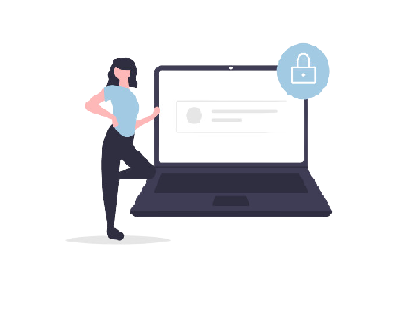
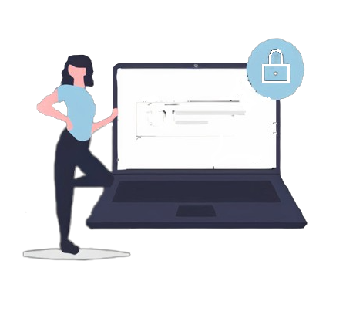
Implement API for Forgot password

diff --git a/src/screens/SubmitEmailScreen/index.js b/src/screens/SubmitEmailScreen/index.js
@@ -1,14 +1,152 @@
-import {StyleSheet, Text, View} from 'react-native';
-import React from 'react';
+import {
+  Animated,
+  Image,
+  ImageBackground,
+  Keyboard,
+  KeyboardAvoidingView,
+  Platform,
+  ScrollView,
+  StyleSheet,
+  Text,
+  TouchableOpacity,
+  View,
+} from 'react-native';
+import React, {useEffect, useRef, useState} from 'react';
+import {useNavigation} from '@react-navigation/native';
+import FontAwesome from 'react-native-vector-icons/FontAwesome';
+import {heightScreen, widthScreen} from '../../utility';
+import FieldTextInput from '../../components/FieldTextInput';
+import FieldButton from '../../components/FieldButton';
+import {SignIn} from '../../apis/controller/accounts/SignIn';
 
-const SubmitEmail = () => {
+const Header = () => {
+  const navigation = useNavigation();
   return (
     <View>
-      <Text>SubmitEmail</Text>
+      <View style={styles.viewBack}>
+        <TouchableOpacity
+          onPress={() => navigation.goBack()}
+          style={styles.buttonBack}>
+          <FontAwesome name="angle-left" size={24} color="black" />
+        </TouchableOpacity>
+      </View>
+      <Text style={styles.textHello}>New Password</Text>
     </View>
+  );
+};
+const Body = ({email, setNewPass, newPass}) => {
+  const navigation = useNavigation();
+  const handleSignIn = (email, password) => {
+    SignIn(email, password);
+    navigation.navigate('Home');
+  };
+  return (
+    <ScrollView style={styles.containerBody}>
+      <Image
+        source={require('../../assets/images/forgot321.png')}
+        resizeMode="cover"
+      />
+      <Text style={styles.textEnter}>
+        We will send you verification link this email address.
+      </Text>
+      <Text style={styles.textEnter}>({email})</Text>
+      <FieldTextInput
+        stylesContainer={{marginTop: heightScreen * 0.02}}
+        secureTextEntry={true}
+        placeholder={'Enter your new password'}
+        onChangeText={newPass => setNewPass(newPass)}
+        onSubmitEditing={() => handleSubmit(newPass)}
+      />
+      <FieldButton
+        stylesContainer={{marginVertical: heightScreen * 0.03}}
+        title={'Sign in'}
+        onPress={() => handleSignIn(email, newPass)}
+      />
+    </ScrollView>
+  );
+};
+const SubmitEmail = ({route}) => {
+  const navigation = useNavigation();
+  const headerMotion = useRef(new Animated.Value(0)).current;
+  // function handle animation
+  const animatedKeyBoard = (motion, value, duration) => {
+    Animated.timing(motion, {
+      toValue: value,
+      duration: duration,
+      speed: Platform.OS == 'ios' ? 60 : 50,
+      useNativeDriver: false,
+    }).start();
+  };
+  // hanlde to avoid view when showing key board
+  useEffect(() => {
+    const SHOW_KEYBOARD_EVENT =
+      Platform.OS === 'ios' ? 'keyboardWillShow' : 'keyboardDidShow';
+    const HIDE_KEYBOARD_EVENT =
+      Platform.OS === 'ios' ? 'keyboardWillHide' : 'keyboardDidHide';
+    const showSubscription = Keyboard.addListener(SHOW_KEYBOARD_EVENT, () => {
+      animatedKeyBoard(headerMotion, heightScreen * -0.2, 400);
+    });
+    const hideSubscription = Keyboard.addListener(HIDE_KEYBOARD_EVENT, () => {
+      animatedKeyBoard(headerMotion, 0, 400);
+    });
+    return () => {
+      showSubscription.remove();
+      hideSubscription.remove();
+    };
+  }, []);
+  const {email} = route.params;
+  const [newPass, setNewPass] = useState('');
+  const linkImg = require('../../assets/images/backgroundForgot.png');
+  return (
+    <ScrollView style={styles.viewParent}>
+      <ImageBackground source={linkImg} resizeMode="cover">
+        <KeyboardAvoidingView
+          behavior={Platform.OS === 'ios' ? 'padding' : null}>
+          <Header />
+          <Body email={email} setNewPass={setNewPass} newPass={newPass} />
+        </KeyboardAvoidingView>
+      </ImageBackground>
+    </ScrollView>
   );
 };
 
 export default SubmitEmail;
 
-const styles = StyleSheet.create({});
+const styles = StyleSheet.create({
+  viewParent: {
+    height: heightScreen,
+    width: widthScreen,
+  },
+  viewBack: {
+    height: heightScreen * 0.12,
+    width: widthScreen,
+  },
+  buttonBack: {
+    position: 'absolute',
+    alignItems: 'center',
+    justifyContent: 'center',
+    backgroundColor: '#fff',
+    height: 50,
+    width: 50,
+    borderRadius: 50 / 2,
+    bottom: 0,
+    left: widthScreen * 0.05,
+  },
+  textHello: {
+    fontWeight: 'bold',
+    fontSize: 35,
+    color: '#000',
+    textAlign: 'center',
+  },
+  textEnter: {
+    fontSize: 15,
+    color: '#000',
+    fontWeight: '500',
+    textAlign: 'center',
+  },
+  containerBody: {
+    height: heightScreen,
+    alignSelf: 'center',
+    width: widthScreen * 0.9,
+  },
+});

diff --git a/src/screens/ForgotPasswordScreen/index.js b/src/screens/ForgotPasswordScreen/index.js
@@ -1,8 +1,11 @@
 import {
+  Alert,
   Animated,
   Image,
   ImageBackground,
   Keyboard,
+  KeyboardAvoidingView,
+  Platform,
   ScrollView,
   StyleSheet,
   Text,
@@ -15,6 +18,7 @@ import FontAwesome from 'react-native-vector-icons/FontAwesome';
 import {heightScreen, widthScreen} from '../../utility';
 import FieldTextInput from '../../components/FieldTextInput';
 import FieldButton from '../../components/FieldButton';
+import {OnForgot} from '../../apis/controller/accounts/OnForgot';
 
 const Header = () => {
   const navigation = useNavigation();
@@ -27,32 +31,46 @@ const Header = () => {
           <FontAwesome name="angle-left" size={24} color="black" />
         </TouchableOpacity>
       </View>
-      <Text style={styles.textHello}>Forgot Password!</Text>
-      <Text style={styles.textWelcome}>Welcome Back To DaNaTravel</Text>
+      <Text style={styles.textHello}>Forgot Password</Text>
     </View>
   );
 };
 const Body = ({email, setEmail}) => {
   const navigation = useNavigation();
   const handleSubmit = email => {
-    console.log(email);
-    navigation.navigate('Submit');
+    if (!email.match(regexemail)) {
+      Alert.alert('Failed', 'Email is not correct', [
+        {
+          text: 'Try again',
+        },
+      ]);
+    } else {
+      OnForgot(email) === 'Email not found'
+        ? Alert.alert('Failed', 'Email is not verified', [
+            {
+              text: 'Try again',
+            },
+          ])
+        : navigation.navigate('Submit', {email: email});
+    }
   };
+  const regexemail = /\S+@\S+\.\S+/;
   return (
     <ScrollView style={styles.containerBody}>
       <Image
-        source={require('../../assets/images/forgot1.png')}
+        source={require('../../assets/images/forgot123.png')}
         resizeMode="cover"
       />
+      <Text style={styles.textEnter}>Enter your email address</Text>
       <FieldTextInput
-        stylesContainer={{marginTop: heightScreen * 0.05}}
+        stylesContainer={{marginTop: heightScreen * 0.02}}
         placeholder={'Enter your email'}
         onChangeText={email => setEmail(email)}
         onSubmitEditing={() => handleSubmit(email)}
       />
       <FieldButton
         stylesContainer={{marginVertical: heightScreen * 0.03}}
-        title={'Submit'}
+        title={'Send verification link'}
         onPress={() => handleSubmit(email)}
       />
     </ScrollView>
@@ -88,10 +106,16 @@ const ForgotPassword = () => {
     };
   }, []);
   const [email, setEmail] = useState('');
+  const linkImg = require('../../assets/images/backgroundForgot.png');
   return (
     <ScrollView style={styles.viewParent}>
-      <Header />
-      <Body email={email} setEmail={setEmail} />
+      <ImageBackground source={linkImg} resizeMode="cover">
+        <KeyboardAvoidingView
+          behavior={Platform.OS === 'ios' ? 'padding' : null}>
+          <Header />
+          <Body email={email} setEmail={setEmail} />
+        </KeyboardAvoidingView>
+      </ImageBackground>
     </ScrollView>
   );
 };
@@ -102,9 +126,6 @@ const styles = StyleSheet.create({
   viewParent: {
     height: heightScreen,
     width: widthScreen,
-  },
-  img: {
-    tintColor: 'gray',
   },
   viewBack: {
     height: heightScreen * 0.12,
@@ -127,10 +148,10 @@ const styles = StyleSheet.create({
     color: '#000',
     textAlign: 'center',
   },
-  textWelcome: {
-    fontSize: 20,
-    color: '#707B81',
-    textAlign: 'center',
+  textEnter: {
+    fontSize: 15,
+    color: '#000',
+    fontWeight: '500',
   },
   containerBody: {
     height: heightScreen,

diff --git a/src/apis/controller/accounts/OnForgot.js b/src/apis/controller/accounts/OnForgot.js
@@ -1,0 +1,27 @@
+import axios from 'axios';
+import {BASE_URL} from '@env';
+export const OnForgot = async email => {
+  let data = JSON.stringify({
+    email: email,
+  });
+  let config = {
+    method: 'post',
+    maxBodyLength: Infinity,
+    url: `${BASE_URL}/accounts/forgot-password`,
+    headers: {
+      'Content-Type': 'application/json',
+    },
+    data: data,
+  };
+
+  await axios
+    .request(config)
+    .then(response => {
+      console.log(response?.data?.message);
+      return response?.data?.message;
+    })
+    .catch(error => {
+      console.log(error?.response?.data?.message);
+      return error?.response?.data?.message;
+    });
+};

diff --git a/src/screens/SignInScreen/index.js b/src/screens/SignInScreen/index.js
@@ -14,7 +14,6 @@ import FontAwesome from 'react-native-vector-icons/FontAwesome';
 import FieldTextInput from '../../components/FieldTextInput';
 import FieldButton from '../../components/FieldButton';
 import {SignIn} from '../../apis/controller/accounts/SignIn';
-import AsyncStorage from '@react-native-async-storage/async-storage';
 import axios from 'axios';
 import FieldWebView from '../../components/WebView';
 
